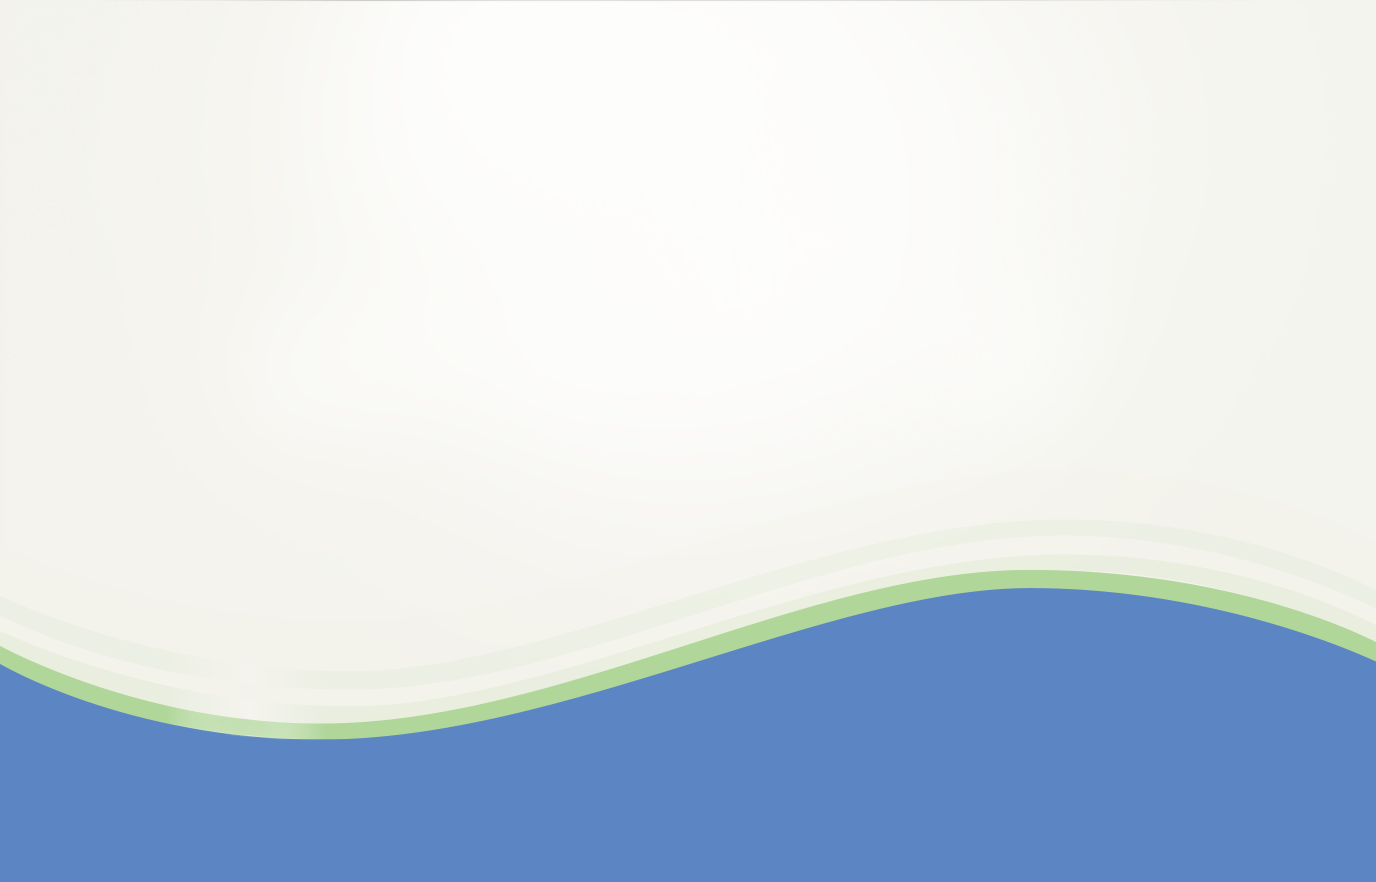
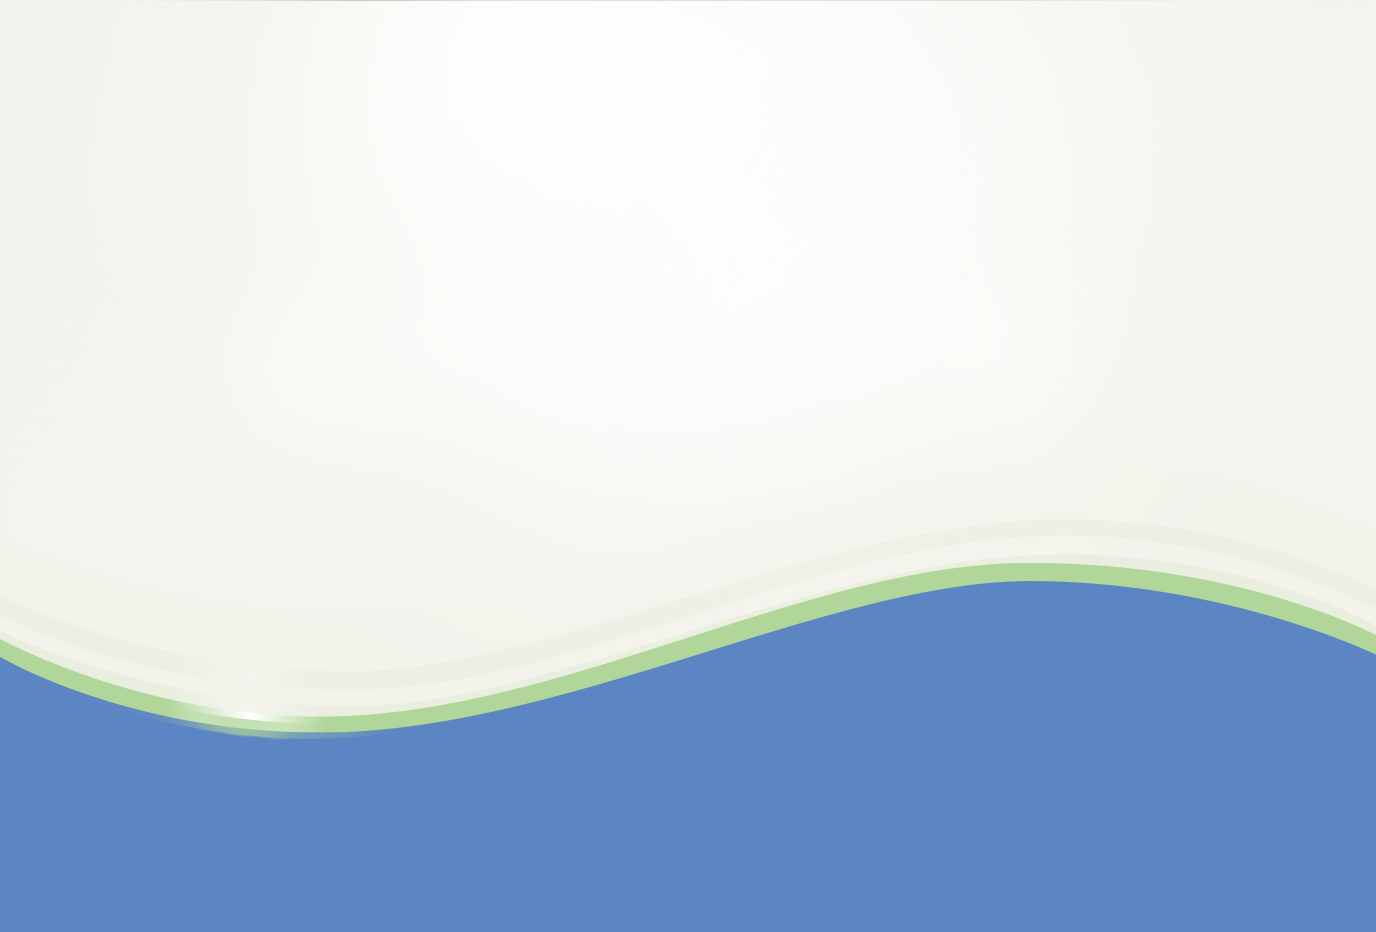
배스바디(jm)

Changed region(s): [[0.0, 0.5816, 1.0, 0.8571]]

diff --git a/_ui/responsive/html/product/bath_body/supplements/BB_3137_glister_travel_kit.html b/_ui/responsive/html/product/bath_body/supplements/BB_3137_glister_travel_kit.html
@@ -57,34 +57,176 @@
 								<div class="accordion-collapse-wrapper">
 								
 									<!-- 제품 상세영역 -->
-									<div class="product-body-view skin-care">
+									<div class="product-body-view bath-body">
 
 										<!-- 비주얼 영역 -->
-										<div class="visual-area bathbody">
+										<div class="visual-area type02 bodywash">
 											<div class="v-logo beauty"><img src="/_ui/responsive/theme-blue/images/akl_product/common/logo_glister.png" alt="glister 로고"></div>
 											<div class="txt-info-visual">
-												<div class="v-logo-txt">피부 진정을 돕는 촉촉하고 크리미한 바디워시</div>
-												<div class="v-tit"><strong class="blue"></strong></div>
-												<p class="v-txt">순하고 크리미한 생분해성 포뮬러가 즉각적으로 풍부한 거품을 생성하며 피부를 부드럽고 깨끗하게 세정합니다. 피부에 깨끗하고 촉촉하고 유연한 느낌을 남겨주며, 피부를 진정시키는데도움을 주는 특허*받은 컴플렉스를 함유하고 있습니다.</p>												
+												<div class="v-logo-txt">효과적인 치아 관리</div>
+												<div class="v-tit">글리스터 <span class="water-blue">트래블 키트</span></div>
+												<p class="v-txt">(여행 시 꼭 필요한 구강용 제품)
+													<br>언제 어디서나 간편한 구강 케어를 도와드리는 트래블 키트는 튼튼한 파우치와 여행 시 꼭 필요한 구강용 제품을 제공해 더욱 즐겁고 편리한 여행을 도와드립니다.
+												</p>												
 											</div>	
 											<div class="v-pro">
-												<span><img src="/_ui/responsive/theme-blue/images/akl_product/bath-body/visual_top_1292.png" alt="G&H 너리쉬 플러스 바디워시 상품 이미지"></span>
+												<span><img src="/_ui/responsive/theme-blue/images/akl_product/bath-body/visual_top_3137.png" alt="글리스터 트래블 키트 상품 이미지"></span>
 											</div>
 										</div>
 										<!-- //비주얼 영역 -->
 										
-										<!--  content 영역 -->	
+										<!--  content 영역 -->
+										<div class="detail-content-area bath-body">
+											<div class="pro-composition">
+												<div class="com-tit">제품<span class=water-blue>구성</span></div>											
+
+												<div class="pcomp-area">
+													<div class="pcomp-list deaf04">
+														<div class="comp-info">
+															<div class="comp-box">
+																<div class="code-im">
+																	<span><img src="/_ui/responsive/theme-blue/images/akl_product/bath-body/pr_info_toothpaste.png" alt="상품이미지"></span>
+																</div>
+																<dl>
+																	<dt>
+																		<p class="po-tit">글리스터 치약(여행용 사이즈) 1개</p>
+																	</dt>
+																	<dd>
+																		<p>휴대가 간편한 여행용 사이즈</p>
+																		<span class="cc-btn"><a href="#" class="bt-akl-blue">제품 자세히 보기</a></span>
+																	</dd>															
+																</dl>
+															</div>
+														</div>
+														<div class="comp-info">
+															<div class="comp-box">
+																<div class="code-im">
+																	<span><img src="/_ui/responsive/theme-blue/images/akl_product/bath-body/pr_info_tooth_brush_two.png" border="0" alt="상품이미지"></span>
+																</div>
+																<dl>
+																	<dt>
+																		<p class="po-tit">글리스터 칫솔 2개</p>
+																	</dt>
+																	<dd>
+																		<p>건강한 치아와 잇몸을 위한 효과적인 설계</p>
+																		<span class="cc-btn"><a href="#" class="bt-akl-blue">제품 자세히 보기</a></span>
+																	</dd>
+																</dl>
+															</div>
+														</div>
+														<div class="comp-info">
+															<div class="comp-box">
+																<div class="code-im">
+																	<span><img src="/_ui/responsive/theme-blue/images/akl_product/bath-body/pr_info_pauch.png" alt="상품이미지"></span>
+																</div>
+																<dl>
+																	<dt>
+																		<p class="po-tit">글리스터 여행용 파우치 1개</p>
+																	</dt>	
+																	<dd>
+																		<p>글리스터 트래블 키트에만 제공</p>																		
+																	</dd>														
+																</dl>
+																
+															</div>
+														</div>	
+														<div class="comp-info">
+															<div class="comp-box">
+																<div class="code-im">
+																	<span><img src="/_ui/responsive/theme-blue/images/akl_product/bath-body/pr_info_tooth_brush_cap.png" alt="상품이미지"></span>
+																</div>
+																<dl>
+																	<dt>
+																		<p class="po-tit">글리스터 칫솔캡 2개</p>
+																	</dt>		
+																	<dd>
+																		<p>글리스터트래블 키트에만 제공</p>																		
+																	</dd>													
+																</dl>																
+															</div>
+														</div>													
+													</div>
+												</div>
 										
+										
+												<div class="advantage-area">											
+													<div class="com-tit center">효과적인 치아 관리를 위한 <span class="water-blue">글리스터</span></div>
+													<div class="">
+														<div class="bepe-top">
+															<div class="txt-lound blue"><span>글리스터 LINE UP</span></div>
+														</div>
+														<div class="bep-lst">
+															<ul>
+																<li>
+																	<div class="beoprod-box">
+																		<span class="fig-b">
+																			<span><img src="/_ui/responsive/theme-blue/images/akl_product/bath-body/line_up_toothpaste.png" alt="상품이미지"></span>
+																		</span>
+																		<p>글리스터 치약</p>
+																	</div>
+																</li>
+																<li>
+																	<div class="beoprod-box">
+																		<span class="fig-b">
+																			<span><img src="/_ui/responsive/theme-blue/images/akl_product/bath-body/line_up_toothpaste_travel.png" alt="상품이미지"></span>
+																		</span>
+																		<p>글리스터 여행용 치약</p>
+																	</div>
+																</li>
+																<li>
+																	<div class="beoprod-box">
+																		<span class="fig-b">
+																			<span><img src="/_ui/responsive/theme-blue/images/akl_product/bath-body/line_up_flash_spray.png" alt="상품이미지"></span>
+																		</span>
+																		<p>글리스터 리후레셔 스프레이</p>
+																	</div>
+																</li>
+																<li>
+																	<div class="beoprod-box">
+																		<span class="fig-b">
+																			<span><img src="/_ui/responsive/theme-blue/images/akl_product/bath-body/line_up_mouse_wash.png" alt="상품이미지"></span>
+																		</span>
+																		<p>글리스터 컨센트레이티드 마우스워시액</p>
+																	</div>
+																</li>
+																<li>
+																	<div class="beoprod-box">
+																		<span class="fig-b">
+																			<span><img src="/_ui/responsive/theme-blue/images/akl_product/bath-body/line_up_tooth_brush.png" alt="상품이미지"></span>
+																		</span>
+																		<p>글리스터 칫솔</p>
+																	</div>
+																</li>
+																<li>
+																	<div class="beoprod-box">
+																		<span class="fig-b">
+																			<span><img src="/_ui/responsive/theme-blue/images/akl_product/bath-body/line_up_tooth_brush_child.png" alt="상품이미지"></span>
+																		</span>
+																		<p>글리스터 어린이 칫솔</p>
+																	</div>
+																</li>
+																<li>
+																	<div class="beoprod-box">
+																		<span class="fig-b">
+																			<span><img src="/_ui/responsive/theme-blue/images/akl_product/bath-body/line_up_travel_kit.png" alt="상품이미지"></span>
+																		</span>
+																		<p>글리스터 트래블 키트</p>
+																	</div>
+																</li>
+															</ul>
+														</div>
+													</div>
+												</div>
+											</div>	
+										</div>
 										<!--//  content 영역 END -->	
 									</div>
-									<!-- 제품 상세영역 -->
 								</div>
 							</div>
 						</div>
 					</div>
 				</div>
 			</div>
-
 		</div>
 	</main>
 </body>

diff --git a/_ui/responsive/theme-blue/css/akl-product02.css b/_ui/responsive/theme-blue/css/akl-product02.css
@@ -46,7 +46,7 @@ Editor : ji-min Park
 
 
 /* 배스바디 */
-.visual-area.type02.bodywash{background: #000000 url(../images/akl_product/bath-body/bg_gh_nurish.png) no-repeat top center;height:1029px;} /* 바디워시 */
+.visual-area.type02.bodywash{background: #ffffff url(../images/akl_product/bath-body/bg_glister.png) no-repeat top center;height:932px;} /* 바디워시 */
 
 
 
